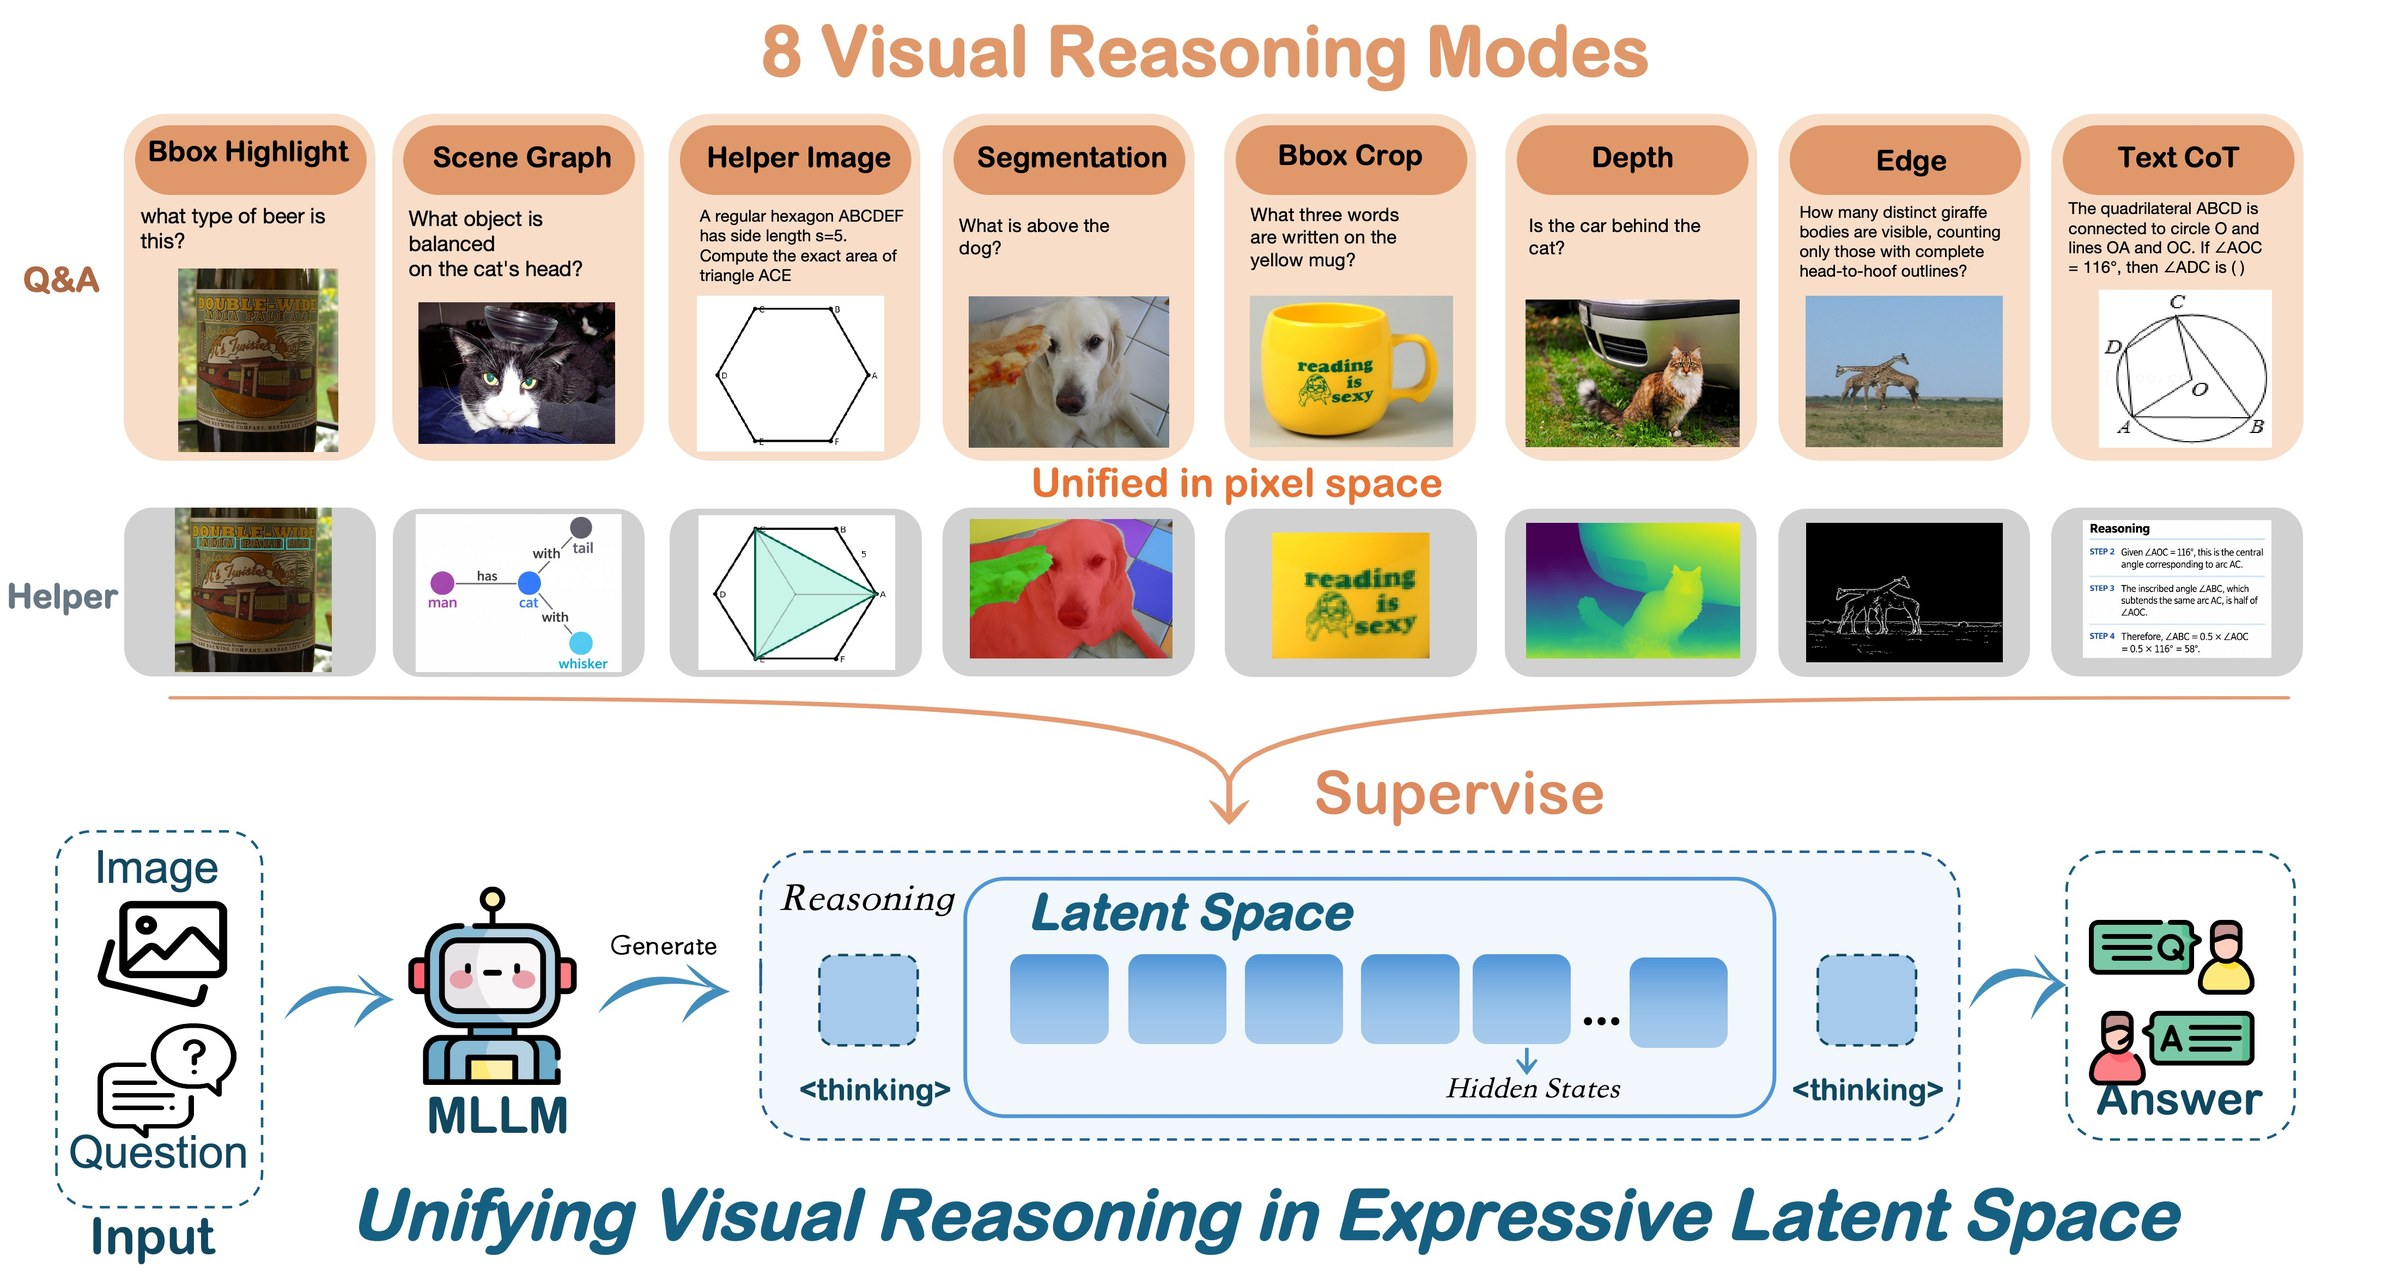
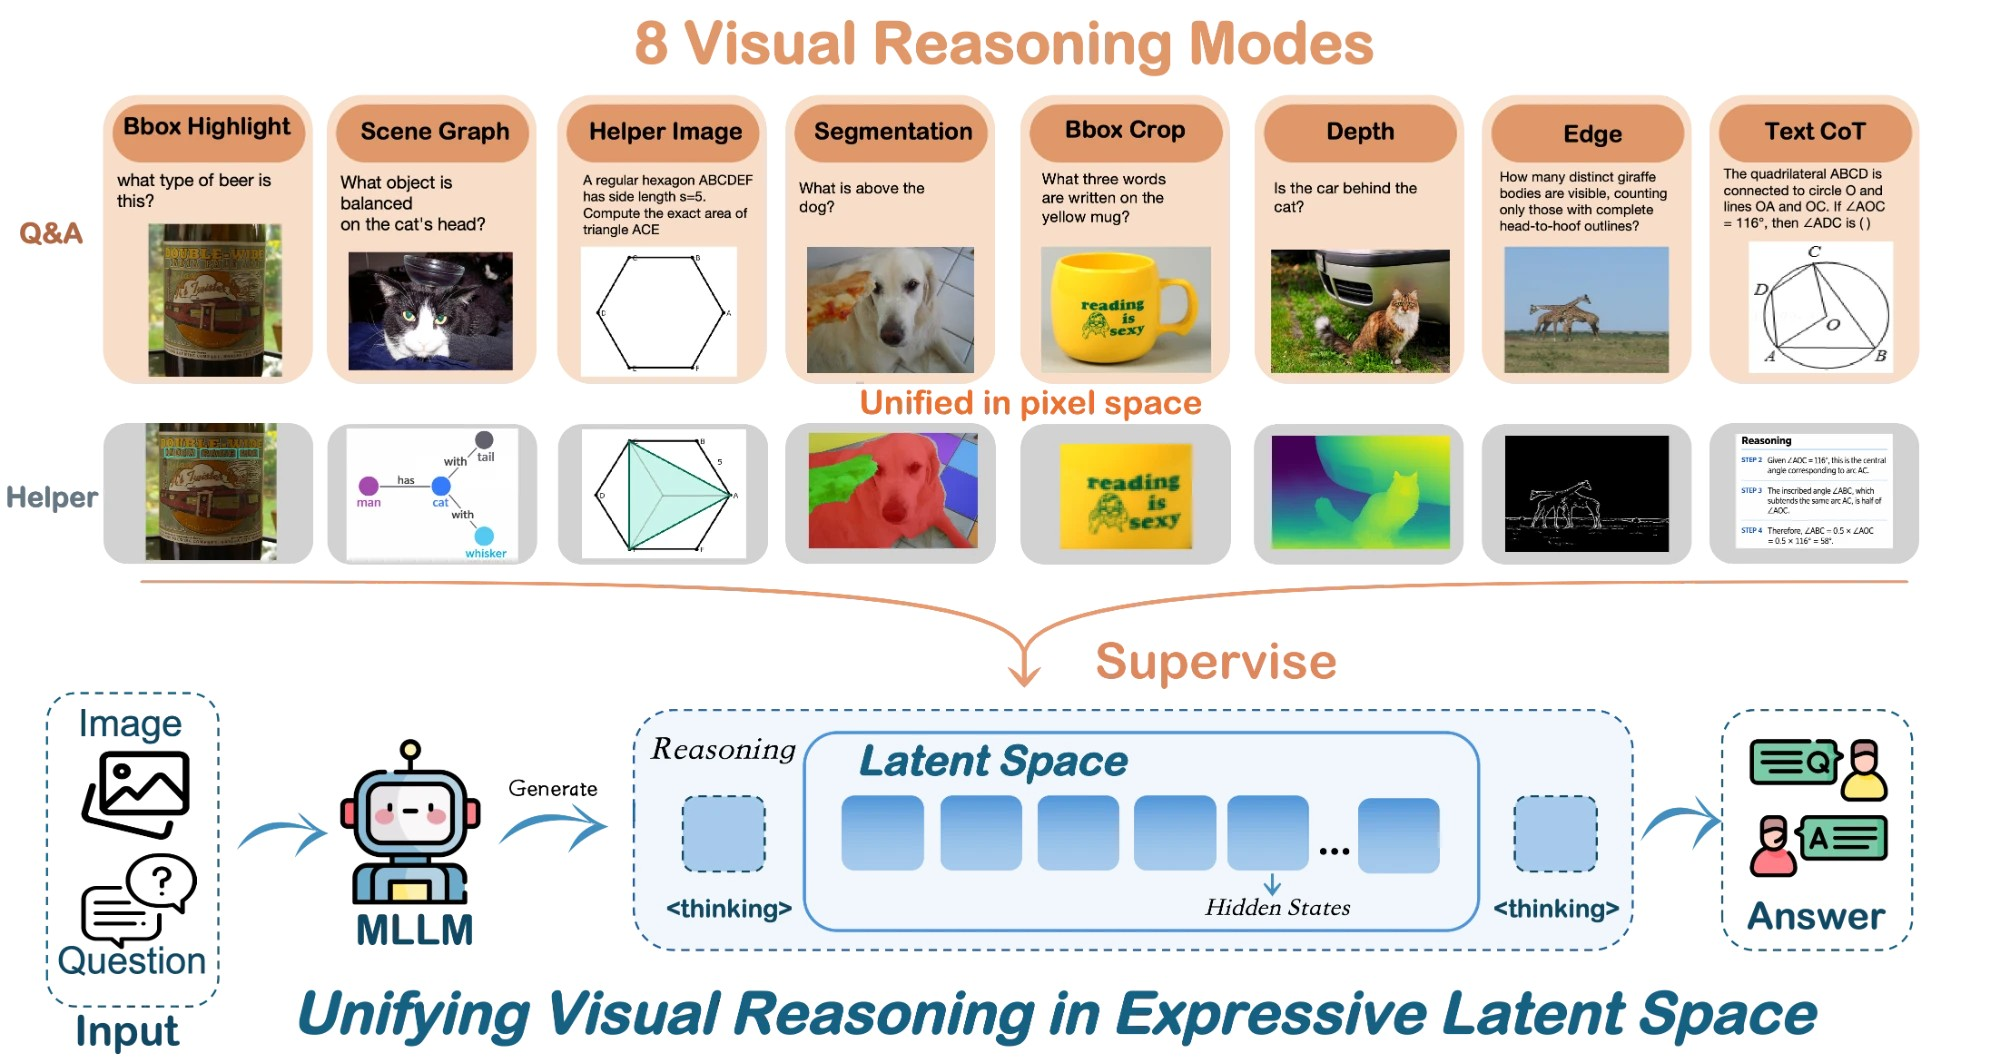
Update Figure 1 (overview)
New version from the authors: the Answer icons no longer overlap the
"Answer" label. 2000x1063, transparent background flattened onto white.

Claude-Session: https://claude.ai/code/session_01CfDjZqgGEEz6iLzxGHJ31p

diff --git a/index.html b/index.html
@@ -141,7 +141,7 @@
     <h2 class="title is-3 has-text-centered">Overview</h2>
     <figure class="paper-figure">
       <a class="figure-link" href="static/images/overview.jpg" target="_blank" rel="noopener" title="Open full-size figure">
-        <img src="static/images/overview.jpg" width="2400" height="1275"
+        <img src="static/images/overview.jpg" width="2000" height="1063"
              alt="Overview of HVLR: eight heterogeneous reasoning forms (bbox highlight, scene graph, helper image, segmentation, bbox crop, depth, edge, text CoT) are rendered into pixel space and supervise a shared latent space; at inference the MLLM generates latent reasoning states between thinking markers and then the answer.">
       </a>
       <figcaption>
